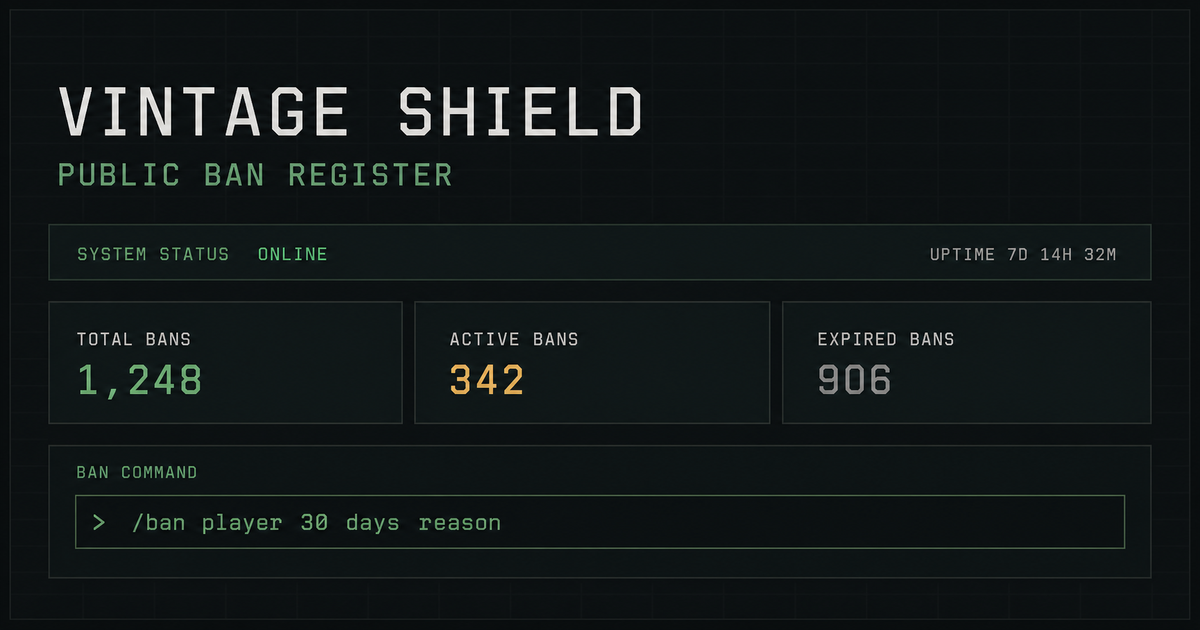
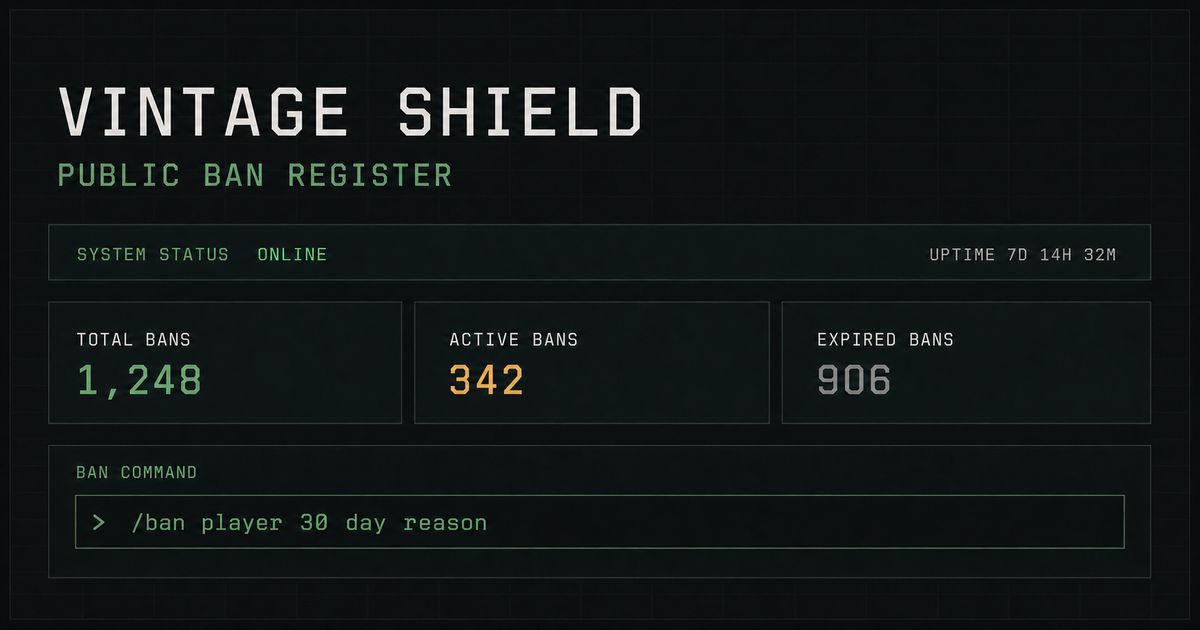
Fix Vintage Story duration unit syntax

diff --git a/lib/ban-service.ts b/lib/ban-service.ts
@@ -60,7 +60,7 @@ const demoCases: PublicBan[] = [
     durationDays: 3650,
     status: "approved",
     actionTaken: true,
-    command: "/ban AshenRook 3650 days Repeated griefing after multiple warnings",
+    command: "/ban AshenRook 3650 day Repeated griefing after multiple warnings",
   },
   {
     id: "VS-1839",
@@ -74,7 +74,7 @@ const demoCases: PublicBan[] = [
     durationDays: 3650,
     status: "approved",
     actionTaken: true,
-    command: "/ban CopperWraith 3650 days Ban evasion after a confirmed inventory theft case",
+    command: "/ban CopperWraith 3650 day Ban evasion after a confirmed inventory theft case",
   },
   {
     id: "VS-1827",
@@ -88,7 +88,7 @@ const demoCases: PublicBan[] = [
     durationDays: 3650,
     status: "approved",
     actionTaken: true,
-    command: "/ban NightKiln 3650 days Malicious use of an exploit affecting server stability",
+    command: "/ban NightKiln 3650 day Malicious use of an exploit affecting server stability",
   },
   {
     id: "VS-1818",
@@ -102,7 +102,7 @@ const demoCases: PublicBan[] = [
     durationDays: 3650,
     status: "approved",
     actionTaken: false,
-    command: "/ban FalseSpring 3650 days Targeted harassment and repeated rule violations",
+    command: "/ban FalseSpring 3650 day Targeted harassment and repeated rule violations",
   },
 ];
 
@@ -159,7 +159,7 @@ export function requireBotAuth(request: Request): Response | null {
 }
 
 export function toPublicBan(row: BanCaseRow): PublicBan {
-  const command = `/ban ${row.player_name} ${row.duration_days} days ${row.public_reason}`;
+  const command = `/ban ${row.player_name} ${row.duration_days} day ${row.public_reason}`;
   return {
     id: row.id,
     playerName: row.player_name,

diff --git a/README.md b/README.md
@@ -39,12 +39,13 @@ The in-game handbook defines the ban command as:
 Vintage Shield generates commands such as:
 
 ```text
-/ban ExamplePlayer 30 days Confirmed griefing after multiple warnings
+/ban ExamplePlayer 30 day Confirmed griefing after multiple warnings
 ```
 
 The handbook accepts a number plus a time unit. Supported units include
 `minute`, `hour`, `day`, `week`, and `year`. The bot currently collects the
-duration in days, so generated commands use the `days` unit.
+duration as a number of days, but generated commands use the required singular
+`day` unit token. Vintage Story rejects plural unit tokens such as `days`.
 
 Vintage Story also provides:
 
